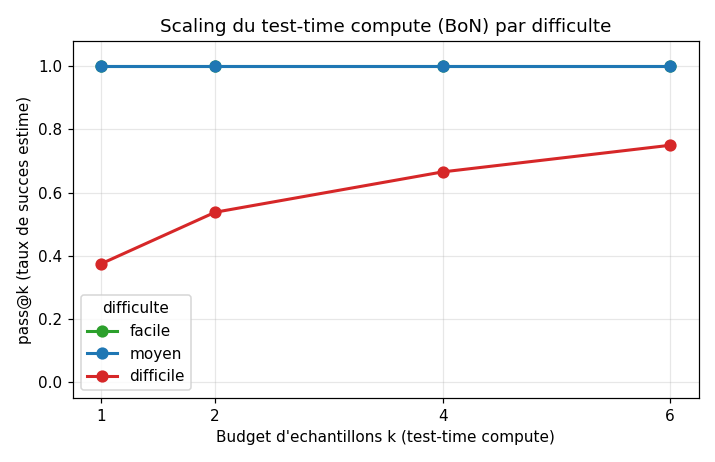
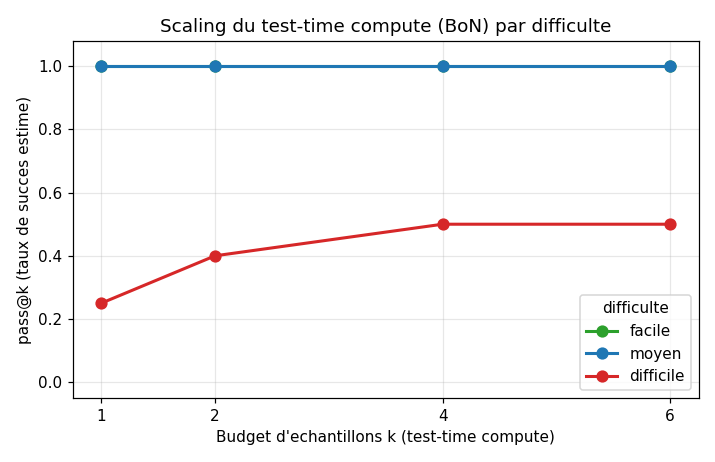
fix(genai,#16275): re-extraire les figures README perimees + rend le geste de regeneration non destructif (#16282)
* fix(genai,#16275): re-extraire les figures README perimees + rendre le geste non destructif

Les 3 PNG de GenAI/Texte/assets/readme/ dataient du 2026-07-08 alors que les
notebooks 16 et 17 ont ete re-executes depuis : la figure committée de la
cellule 8 differait du PNG sur disque de 13 146 px (cellule 11 : 4 161 px ;
notebook 17 cellule 11 : 24 654 px). Mesure pixel a pixel, pas visuelle.

Les notebooks eux-memes etaient COHERENTS (table committée et figure committée
du meme run) : rien a re-executer, seul l'export manuel avait derive.

- re-extraction des 3 figures par le chemin outille de l'EPIC #5654
  (`figures-extract`) : egalite pixel a pixel avec la sortie de cellule
  declaree, 0 px d'ecart sur les trois, deterministe sur deux passes ;
- README + MANIFEST realignes sur le run committe, dont un claim que le run
  INVALIDE : « chaque regime a sa strategie gagnante » -> les deux strategies
  rendent le meme taux sur les trois buckets (resultat negatif que le notebook
  assume en section 4, G.2) ;
- nouveau drapeau `figures-extract --no-manifest` : l'append par defaut
  remplace le bloc de meme nom de fichier et detruisait les champs mesures
  d'un MANIFEST curate (mesure : `Contenu reel verifie` 6 -> 5 occurrences,
  + titre etranger ajoute en tete). Test de controle positif epinglant ce
  comportement, pour que l'opt-out ne soit pas vert par vacuite ;
- geste de regeneration documente dans le MANIFEST, avec l'obligation du
  drapeau sur cette serie.
[…]

diff --git a/scripts/notebook_tools/tests/test_extract_readme_figures.py b/scripts/notebook_tools/tests/test_extract_readme_figures.py
@@ -900,6 +900,100 @@ class TestExtractFigure:
         )
         assert deep_path.exists()
 
+    def test_write_manifest_false_writes_the_same_png_as_the_default(
+            self, tmp_path: Path):
+        """L'opt-out ne doit changer QUE le MANIFEST, jamais l'image."""
+        nb = self._setup_nb(tmp_path)
+        with_manifest = tmp_path / "a" / "demo.png"
+        without_manifest = tmp_path / "b" / "demo.png"
+        extract_figure(
+            nb_path=nb, cell_index=0, output_index=0,
+            output_path=with_manifest,
+            alt_text_fr="alt", description_visuelle="desc",
+        )
+        extract_figure(
+            nb_path=nb, cell_index=0, output_index=0,
+            output_path=without_manifest,
+            alt_text_fr="alt", description_visuelle="desc",
+            write_manifest=False,
+        )
+        assert with_manifest.read_bytes() == without_manifest.read_bytes()
+
+
+# ---------------------------------------------------------------------------
+# 11bis. TestWriteManifestOptOut — #16275 : l'append MANIFEST est DESTRUCTEUR
+#        sur un MANIFEST curate (il remplace le bloc de meme nom de fichier)
+# ---------------------------------------------------------------------------
+_CURATED_MANIFEST = """# Manifeste des figures — Serie X
+
+| Figure | Fichier | Poids |
+|--------|---------|-------|
+| Demo | `demo.png` | 12 Ko |
+
+## demo.png
+
+- **Source** : notebook `demo.ipynb` (cellule 0, output 0)
+- **Description visuelle** : RGB 80x80 mean R247/G246/B246 std 21/21/21.
+- **Contenu réel vérifié** : 1 panneau, courbe rouge montant de 0.25 a 0.50.
+- **Alt-text (FR)** : figure de demonstration.
+- **Poids** : 12,1 Ko
+
+## autre.png
+
+- **Contenu réel vérifié** : bloc temoin, ne doit jamais bouger.
+"""
+
+
+class TestWriteManifestOptOut:
+    """#16275 : `write_manifest=False` ecrit le PNG sans toucher au MANIFEST.
+
+    Mesure fondatrice (GenAI/Texte, 2026-09-15) : le geste documente de
+    regeneration (`figures-extract` vers `assets/readme/`) faisait passer
+    `Contenu réel vérifié` de 6 a 5 occurrences — l'append remplace le bloc
+    `## <fichier>.png` et perd les champs mesures d'un MANIFEST curate.
+    """
+
+    def _curated_dir(self, tmp_path: Path) -> Path:
+        assets = tmp_path / "assets" / "readme"
+        assets.mkdir(parents=True)
+        (assets / "MANIFEST.md").write_text(_CURATED_MANIFEST, encoding="utf-8")
+        return assets
+
+    def test_positive_control_default_replaces_the_curated_block(
+            self, tmp_path: Path):
+        """Controle POSITIF : sans l'opt-out, le defaut detruit bien le bloc.
+
+        Sans ce test, `write_manifest=False` pourrait etre vert pour la
+        mauvaise raison (le defaut ne touchant rien dans ce corpus).
+        """
+        assets = self._curated_dir(tmp_path)
+        extract_figure(
+            nb_path=self._nb(tmp_path), cell_index=0, output_index=0,
+            output_path=assets / "demo.png",
+            alt_text_fr="alt outil", description_visuelle="desc outil",
+        )
+        body = (assets / "MANIFEST.md").read_text(encoding="utf-8")
+        assert "alt outil" in body
+        assert "Contenu réel vérifié** : 1 panneau" not in body  # champ perdu
+        assert "bloc temoin" in body  # les AUTRES figures sont intactes
+
+    def test_write_manifest_false_preserves_the_manifest_byte_for_byte(
+            self, tmp_path: Path):
+        assets = self._curated_dir(tmp_path)
+        before = (assets / "MANIFEST.md").read_bytes()
+        extract_figure(
+            nb_path=self._nb(tmp_path), cell_index=0, output_index=0,
+            output_path=assets / "demo.png",
+            alt_text_fr="alt outil", description_visuelle="desc outil",
+            write_manifest=False,
+        )
+        assert (assets / "MANIFEST.md").read_bytes() == before
+        assert (assets / "demo.png").read_bytes()[:8] == _PNG_MAGIC
+
+    def _nb(self, tmp_path: Path) -> Path:
+        return _write_nb(
+            tmp_path / "demo.ipynb", [_code_cell_with_png(PNG_100x100_B64)])
+
 
 # ---------------------------------------------------------------------------
 # 11. TestConstants — documented defaults (calibrated on EPIC #5654)

diff --git a/scripts/notebook_tools/extract_readme_figures.py b/scripts/notebook_tools/extract_readme_figures.py
@@ -295,7 +295,7 @@ def extract_figure(nb_path, cell_index: int, output_index: int,
                    description_visuelle: str,
                    max_dim: int = MAX_DIM_DEFAULT,
                    max_bytes: int = MAX_BYTES_DEFAULT,
-                   serie_root=None) -> dict:
+                   serie_root=None, write_manifest: bool = True) -> dict:
     """Extrait une figure PNG d'une cellule de notebook vers ``assets/readme/``.
 
     Lit le PNG a l'index ``(cell_index, output_index)`` du notebook, l'optimise
@@ -322,6 +322,12 @@ def extract_figure(nb_path, cell_index: int, output_index: int,
     ``serie_root`` (optionnel) : si fourni, le chemin relatif du notebook dans
     le manifest est calcule depuis cette racine (plus lisible). Sinon, chemin
     absolu.
+
+    ``write_manifest`` (defaut ``True``) : quand il vaut ``False``, le PNG est
+    ecrit mais aucun bloc n'est ajoute au ``MANIFEST.md``. A utiliser pour les
+    series dont le MANIFEST est **curate** (champs mesures + blocs d'audit
+    dates) : l'append remplace le bloc de meme nom de fichier et perdrait ces
+    champs (#16275).
 
     Retourne le record d'extraction :
 
@@ -376,8 +382,16 @@ def extract_figure(nb_path, cell_index: int, output_index: int,
         "used_pil": used_pil,
         "over_weight": len(optimized) > max_bytes,
     }
-    _append_manifest(
-        out_path.parent, entry, alt_text_fr, description_visuelle, serie_root)
+    # ``write_manifest=False`` : le PNG est ecrit, le MANIFEST est laisse
+    # intact. Necessaire pour les series dont le MANIFEST est CURATE (champs
+    # ``Contenu reel verifie`` / ``Description visuelle`` mesures, blocs
+    # d'audit dates) : l'append ci-dessous ne remplace que le bloc de meme nom
+    # de fichier, donc il detruit ces champs (#16275, mesure : 6 -> 5
+    # occurrences de ``Contenu reel verifie`` sur GenAI/Texte).
+    if write_manifest:
+        _append_manifest(
+            out_path.parent, entry, alt_text_fr, description_visuelle,
+            serie_root)
     return entry
 
 

diff --git a/scripts/notebook_tools/notebook_tools.py b/scripts/notebook_tools/notebook_tools.py
@@ -2209,7 +2209,8 @@ def cmd_figures_extract(args):
             nb_path, args.cell, args.output_index, out_path, args.alt,
             description_visuelle=args.description_visuelle,
             max_dim=args.max_dim, max_bytes=args.max_bytes,
-            serie_root=serie_root)
+            serie_root=serie_root,
+            write_manifest=not args.no_manifest)
     except (ValueError, FileNotFoundError) as exc:
         print_error(str(exc))
         return 1
@@ -2378,6 +2379,11 @@ def main():
                       help='Weight cap in bytes (default: 200 KB, EPIC #5654 HARD)')
     p_fe.add_argument('--serie-root',
                       help='Serie root for relative path in MANIFEST (default: absolute)')
+    p_fe.add_argument('--no-manifest', action='store_true',
+                      help='Write the PNG but leave MANIFEST.md untouched. '
+                           'For series with a CURATED MANIFEST (measured fields '
+                           '+ dated audit blocks): the default append replaces '
+                           'the same-named block and would drop them (#16275).')
 
     args = parser.parse_args()
 

diff --git a/MyIA.AI.Notebooks/GenAI/Texte/assets/readme/MANIFEST.md b/MyIA.AI.Notebooks/GenAI/Texte/assets/readme/MANIFEST.md
@@ -6,13 +6,28 @@ Provenance de chaque figure (convention d'indexation **all-cells** du module `ex
 
 > **Migration canonical c.767 (2026-07-22, jsboige:CoursIA-2)** : ajout du champ **`Description visuelle`** (gist compact de ce qui est *visible* en un coup d'œil, distinct du `Contenu réel vérifié` détaillé) sur les 3 figures txt-*. Format aligné sur c.751 (GenAI/Audio racine, PR #7995) + c.763 (GenAI/Video/04-Applications, PR #8000) + c.764 (GenAI/Image/02-Advanced, PR #8002) + c.765 (GenAI/Video/03-Orchestration, PR #8007) + c.766 (GenAI/Open-WebUI/00-Tour-Plateforme, PR #8012) + modèle rollout #5780. 3/3 figures migrées, audit vision MiniMax M3 firsthand + PIL RGB mean+std à 80×80 (cf PR body). **Audit fondateur c.479 préservé verbatim** ci-dessus ; cette migration est purement additive (pas de suppression de contenu). **Pivot cross-famille strict** vs c.766 (Open-WebUI = nouveau sous-genre #5780, captures Playwright self-hosted) → Texte = sous-genre **matplotlib authentiques** (figures académiques Snell 2024). G-VAR-3 pivot obligatoire après 5 cycles MED/docs-figures-audit consécutifs sur sous-genres GenAI : c.751 (Audio racine) → c.763 (Video/04-Apps) → c.764 (Image/02-Advanced) → c.765 (Video/03) → c.766 (Open-WebUI/00) → c.767 (Texte/00) — famille distincte Open-WebUI → Texte, sous-genre distinct captures Playwright → matplotlib académique.
 
+> **Re-extraction #16275 (2026-09-15, myia-po-2026:CoursIA)** : les 3 PNG étaient **périmés**. Ils avaient été exportés le 2026-07-08 depuis un run antérieur, alors que les notebooks 16 et 17 ont été **re-exécutés depuis** — leurs sorties committées sur `main` portent un autre run (`difficile` : 0.38/0.54/0.67/0.75 → **0.25/0.40/0.50/0.50**). Mesure, en pixels et non à l'œil : la figure committée de la cellule 8 différait du PNG sur disque de **13 146 px** (cellule 11 : **4 161 px** ; notebook 17 cellule 11 : **24 654 px**) — après re-extraction, **0 px** d'écart sur les trois. Les notebooks eux-mêmes étaient **cohérents** (table committée et figure committée du même run) : rien à re-exécuter, seul l'export avait dérivé. Champs *Description visuelle* / *Contenu réel vérifié* / *Alt-text* / *Poids* réalignés sur **le run committé** ; blocs d'audit c.479 et c.767 **préservés verbatim** (ce bloc est purement additif).
+
+**Geste de régénération** — à rejouer après toute ré-exécution des notebooks 16/17 :
+
+```bash
+SR=MyIA.AI.Notebooks/GenAI/Texte
+python scripts/notebook_tools/notebook_tools.py figures-extract "GenAI/Texte/16_Scaling_Test_Time_Compute.ipynb" \
+  --cell 8 --output "$SR/assets/readme/texte-scaling-passk.png" \
+  --alt "<alt-text FR>" --description-visuelle "<ce que la figure montre>" \
+  --serie-root "$SR" --no-manifest
+# idem --cell 11 sur 16_Scaling... et --cell 11 sur 17_Native_Reasoning_vs_Scaling.ipynb
+```
+
+**`--no-manifest` est obligatoire sur cette série** : les sections ci-dessous sont en `## <fichier>.png` (canonical c.767) et l'append par défaut de l'outil **remplace le bloc de même nom** — il détruirait les champs mesurés `Description visuelle` / `Contenu réel vérifié` et leurs blocs d'audit datés. Mesuré : sans le drapeau, `Contenu réel vérifié` passe de 6 à 5 occurrences sur ce fichier (l'option a été ajoutée par cette PR, avec un test de contrôle positif qui épingle ce comportement). **Aucun organe ne détecte aujourd'hui la dérive PNG ↔ sortie de cellule** — c'est le résidu de #16275, hors de ce correctif.
+
 | Figure | Fichier | Dimensions | Poids | Source (notebook · cellule · output) | Sujet |
 |--------|---------|------------|-------|--------------------------------------|-------|
-| Scaling pass@k | `texte-scaling-passk.png` | 715×462 | 33 Ko | `16_Scaling_Test_Time_Compute.ipynb` · cellule 8 · output 0 | Courbes de scaling pass@k par bucket de difficulté (Snell 2024) |
-| BoN vs Réflexion | `texte-bon-vs-reflex.png` | 715×462 | 24 Ko | `16_Scaling_Test_Time_Compute.ipynb` · cellule 11 · output 0 | Best-of-N parallèle vs Réflexion séquentielle — frontière compute-optimal |
-| Raisonnement vs Scaling | `texte-reason-vs-scale.png` | 770×505 | 50 Ko | `17_Native_Reasoning_vs_Scaling.ipynb` · cellule 11 · output 0 | Raisonnement natif vs scaling hand-rolled, comparaison cost-normalisée |
+| Scaling pass@k | `texte-scaling-passk.png` | 715×462 | 30,4 Ko | `16_Scaling_Test_Time_Compute.ipynb` · cellule 8 · output 0 | Courbes de scaling pass@k par bucket de difficulté (Snell 2024) |
+| BoN vs Réflexion | `texte-bon-vs-reflex.png` | 715×462 | 23,1 Ko | `16_Scaling_Test_Time_Compute.ipynb` · cellule 11 · output 0 | Best-of-N parallèle vs Réflexion séquentielle — frontière compute-optimal |
+| Raisonnement vs Scaling | `texte-reason-vs-scale.png` | 770×505 | 47,0 Ko | `17_Native_Reasoning_vs_Scaling.ipynb` · cellule 11 · output 0 | Raisonnement natif vs scaling hand-rolled, comparaison cost-normalisée |
 
-**Total** : 3 figures, 105 Ko. **Politique** (#5654) : ≤200 Ko/fichier, downscale ≤1200 px max. Ces sorties sont des **courbes matplotlib** (line-art + étiquettes de texte) : **PNG lossless natif** préféré à WebP pour préserver la netteté du texte (plots déjà petits, 23–50 Ko natifs). 3 figures = toutes les sorties PNG du module (pas de padding). Arc narratif : (1) scaling du test-time compute — combien d'échantillons pour quelle difficulté ; (2) compute-optimal — parallèle vs séquentiel à budget égal ; (3) cost-normalisé Snell — le raisonnement natif d'un gros modèle vaut-il un scaling hand-rolled ?
+**Total** : 3 figures, 100,5 Ko. **Politique** (#5654) : ≤200 Ko/fichier, downscale ≤1200 px max. Ces sorties sont des **courbes matplotlib** (line-art + étiquettes de texte) : **PNG lossless natif** préféré à WebP pour préserver la netteté du texte (plots déjà petits, 23–47 Ko natifs). 3 figures = toutes les sorties PNG du module (pas de padding). Arc narratif : (1) scaling du test-time compute — combien d'échantillons pour quelle difficulté ; (2) compute-optimal — parallèle vs séquentiel à budget égal ; (3) cost-normalisé Snell — le raisonnement natif d'un gros modèle vaut-il un scaling hand-rolled ?
 
 ---
 
@@ -21,46 +36,46 @@ Provenance de chaque figure (convention d'indexation **all-cells** du module `ex
 ## texte-scaling-passk.png
 
 - **Source** : notebook `16_Scaling_Test_Time_Compute.ipynb` (cellule 8, output 0)
-- **Description visuelle** : Line plot matplotlib 715×462 sur fond majoritairement **blanc cassé** (RGB 80×80 mean R247/G246/B246 std 21/22/21 — variance très basse, signature canonique d'un plot blanc avec peu de pixels colorés : les courbes + axes + grille occupent une fraction minoritaire de la surface), titre intégré en haut « Scaling du test-time compute (BoN) par difficulte ». **3 courbes de marqueurs cercles** : une **verte** (facile) et une **bleue** (moyen) qui forment un plateau horizontal à y=1.0 de x=1 à x=6 (ces deux courbes se superposent quasi exactement) ; une **rouge** (difficile) en montée monotone de y≈0.38 (x=1) → y≈0.54 (x=2) → y≈0.67 (x=4) → y≈0.75 (x=6). **Grille pâle horizontale** (lignes pointillées à 0.2/0.4/0.6/0.8/1.0). **Légende en bas-gauche** listant les 3 codes couleur. Lecture pédagogique = le scaling BoN **sature rapidement** sur les buckets faciles/moyens (dès k=1) et **bénéficie marginalement** du budget supplémentaire sur le bucket difficile sans converger vers 1.0 dans la plage observée.
+- **Description visuelle** : Line plot matplotlib 715×462 sur fond majoritairement **blanc cassé** (RGB 80×80 mean R247/G246/B246 std 21/21/21 — variance très basse, signature canonique d'un plot blanc avec peu de pixels colorés : les courbes + axes + grille occupent une fraction minoritaire de la surface), titre intégré en haut « Scaling du test-time compute (BoN) par difficulte ». **3 courbes de marqueurs cercles** : une **verte** (facile) et une **bleue** (moyen) qui forment un plateau horizontal à y=1.0 de x=1 à x=6 (ces deux courbes se superposent quasi exactement) ; une **rouge** (difficile) en montée de y=0.25 (x=1) → y=0.40 (x=2) → y=0.50 (x=4) → y=0.50 (x=6), plateau atteint dès x=4. **Grille pâle horizontale** (lignes pointillées à 0.2/0.4/0.6/0.8/1.0). **Légende en bas-gauche** listant les 3 codes couleur. Lecture pédagogique = le scaling BoN **sature rapidement** sur les buckets faciles/moyens (dès k=1) et **bénéficie marginalement** du budget supplémentaire sur le bucket difficile sans converger vers 1.0 dans la plage observée.
 - **Contenu réel vérifié** : Figure 715×462, titre centré en haut « Scaling du test-time compute (BoN) par difficulte ». **Axes annotés explicitement** : axe X = « Budget d'echantillons k (test-time compute) » avec valeurs discrètes 1, 2, 4, 6 ; axe Y = « pass@k (taux de succes estime) » de 0.0 à 1.0. **3 courbes de marqueurs** (lignes simples avec cercles) :
   - **Facile (vert)** : plateau à 1.0 sur tout le budget k=1→6 (le modèle résout déjà dès k=1)
   - **Moyen (bleu)** : plateau à 1.0 sur tout le budget k=1→6 (résolu tôt aussi)
-  - **Difficile (rouge)** : montée monotone de ~0.38 (k=1) → ~0.54 (k=2) → ~0.67 (k=4) → ~0.75 (k=6)
+  - **Difficile (rouge)** : montée de 0.25 (k=1) → 0.40 (k=2) → 0.50 (k=4) → 0.50 (k=6), puis **plateau** (le budget supplémentaire ne gagne plus rien au-delà de k=4)
 
   Légende en bas-gauche « difficulte » avec les 3 codes couleur. **Alt-text et figure cohérents** : illustre le principe du scaling BoN — les problèmes faciles saturent rapidement, les difficiles bénéficient marginalement du budget supplémentaire mais sans converger vers 1.0 dans la plage observée.
-- **Alt-text (FR)** : Scaling pass@k vs budget d'échantillons (BoN) par bucket de difficulté — courbe rouge « difficile » en montée monotone 0.38→0.75 sur k=1→6, courbes verte « facile » et bleue « moyen » en plateau à 1.0 sur tout le budget (Snell 2024, scaling laws for test-time compute).
-- **Poids** : 32,2 Ko (natif PNG 715×462)
+- **Alt-text (FR)** : Scaling pass@k vs budget d'échantillons (BoN) par bucket de difficulté — courbe rouge « difficile » en montée 0.25→0.40→0.50→0.50 sur k=1→6 (plateau dès k=4), courbes verte « facile » et bleue « moyen » en plateau à 1.0 sur tout le budget (Snell 2024, scaling laws for test-time compute).
+- **Poids** : 30,4 Ko (natif PNG 715×462)
 - **Note** : référence implicite à Snell 2024 (scaling laws for test-time compute) — choix pédagogique pertinent pour ouvrir sur la discussion compute-optimal.
 
 ## texte-bon-vs-reflex.png
 
 - **Source** : notebook `16_Scaling_Test_Time_Compute.ipynb` (cellule 11, output 0)
-- **Description visuelle** : Bar plot matplotlib 715×462 (grouped bars) sur fond blanc cassé avec la palette **la plus saturée** des 3 figures (RGB 80×80 mean R229/G194/B187 std 41/65/90 — B plus étalé que R/G car le violet Réflexion tire B vers le haut, std B=90 le plus élevé des 3 figures), titre intégré « Compute-optimal : strategie gagnante selon la difficulte ». **6 barres groupées par 2** sur 3 clusters de l'axe X (facile / moyen / difficile) : **orange vif** = BoN parallèle (pass@4), **violet-mauve** = Réflexion séquentielle (K=4). Lecture des hauteurs : **facile** = BoN 1.00 ≈ Réflexion 1.00 (barres jumelles au plafond, indiscernables) ; **moyen** = BoN 1.00 ≈ Réflexion 1.00 (idem) ; **difficile** = BoN ~0.67 **dépasse visiblement** Réflexion ~0.50 (différence de hauteur ≈0.17 = la seule discrimination du graphique). **Légende en haut-droite** avec carré orange × carré violet. Axes sans label explicite sur X (catégoriel), Y = 0.0 à 1.0. Lecture pédagogique = verdict « **BoN gagne** » n'est **que** sur le bucket difficile (les autres saturent au plafond donc sont équivalents).
+- **Description visuelle** : Bar plot matplotlib 715×462 (grouped bars) sur fond blanc cassé avec la palette **la plus saturée** des 3 figures (RGB 80×80 mean R229/G196/B190 std 41/65/88 — B plus étalé que R/G car le violet Réflexion tire B vers le haut, std B=90 le plus élevé des 3 figures), titre intégré « Compute-optimal : strategie gagnante selon la difficulte ». **6 barres groupées par 2** sur 3 clusters de l'axe X (facile / moyen / difficile) : **orange vif** = BoN parallèle (pass@4), **violet-mauve** = Réflexion séquentielle (K=4). Lecture des hauteurs : **facile** = BoN 1.00 ≈ Réflexion 1.00 (barres jumelles au plafond, indiscernables) ; **moyen** = BoN 1.00 ≈ Réflexion 1.00 (idem) ; **difficile** = BoN 0.50 ≈ Réflexion 0.50 (barres jumelles, **aucune discrimination** sur ce run). **Légende en haut-droite** avec carré orange × carré violet. Axes sans label explicite sur X (catégoriel), Y = 0.0 à 1.0. Lecture pédagogique = sur ce run, **aucun bucket ne discrimine** les deux stratégies (le notebook l'assume en section 4, limites honnêtes G.2) ; la discrimination que Snell prédit sur le bucket difficile demande un n et un modèle plus grands. **Précision de mesure** : ce verdict décrit un tirage, pas une propriété — le bucket décisif ne compte que **2 problèmes** et le décodage est échantillonné, sans graine ; rejouer la comparaison au même n donne tantôt l'égalité, tantôt l'avantage à l'une des deux stratégies. Ce document décrit le tirage committé ; il ne tranche pas la frontière compute-optimale.
 - **Contenu réel vérifié** : Figure 715×462, titre centré en haut « Compute-optimal : strategie gagnante selon la difficulte ». **Axe Y** = « Taux de succes » de 0.0 à 1.0 ; **axe X** = 3 buckets discrets (facile / moyen / difficile) sans label d'axe explicite. **6 barres groupées par 2** (BoN orange + Réflexion violet) :
   - **Facile** : BoN = 1.00, Réflexion = 1.00 → **egal**
   - **Moyen** : BoN = 1.00, Réflexion = 1.00 → **egal**
-  - **Difficile** : BoN = ~0.67, Réflexion = ~0.50 → **BoN gagne**
+  - **Difficile** : BoN = 0.50, Réflexion = 0.50 → **egal**
 
-  Légende en haut-droite : « BoN parallele (pass@4) » orange × « Reflexion sequentielle (K=4) » violet. **Alt-text et figure cohérents** : illustre le résultat pédagogique clé — pour les problèmes difficiles, le **parallélisme BoN** est plus compute-efficace que la **réflexion séquentielle** (à budget tokens égal). Note : pour les problèmes faciles/moyens, les deux stratégies atteignent le plafond donc sont équivalentes — la discrimination est sur le bucket difficile.
-- **Alt-text (FR)** : Bar plot compute-optimal — 3 buckets (facile/moyen/difficile), 2 stratégies à budget égal K=4 (BoN orange vs Réflexion violet). Facile et moyen : les deux stratégies atteignent le plafond 1.0 (équivalentes). Difficile : BoN ~0.67 dépasse Réflexion ~0.50 (BoN gagne sur les problèmes durs).
-- **Poids** : 23,7 Ko (natif PNG 715×462)
-- **Note** : comparaison côte-à-côte (grouped bars) = choix lisible ; le verdict « BoN gagne » est implicite (hauteur de barre) sans annotation texte additionnelle.
+  Légende en haut-droite : « BoN parallele (pass@4) » orange × « Reflexion sequentielle (K=4) » violet. **Alt-text et figure cohérents** : sur ce run les deux stratégies rendent **le même taux sur les trois buckets** — la figure documente donc un **résultat négatif** (la discrimination compute-optimale de Snell n'est pas atteignable à n=6 / K=4 sur ce modèle), ce que le notebook énonce lui-même en section 4 (limites honnêtes G.2).
+- **Alt-text (FR)** : Bar plot compute-optimal — 3 buckets (facile/moyen/difficile), 2 stratégies à budget égal K=4 (BoN orange vs Réflexion violet). Facile et moyen : 1.0 pour les deux (équivalentes). Difficile : BoN 0.50 et Réflexion 0.50 — égalité, aucune stratégie ne domine sur ce run.
+- **Poids** : 23,1 Ko (natif PNG 715×462)
+- **Note** : comparaison côte-à-côte (grouped bars) = choix lisible ; le verdict est **implicite** par la hauteur des barres (ici : égalité, donc pas de verdict à lire) sans annotation texte additionnelle.
 
 ## texte-reason-vs-scale.png
 
 - **Source** : notebook `17_Native_Reasoning_vs_Scaling.ipynb` (cellule 11, output 0)
-- **Description visuelle** : Line plot + scatter matplotlib 770×505 sur fond blanc cassé (RGB 80×80 mean R245/G245/B245 std 23/22/23 — variance basse, même signature que scaling-passk.png car line-art éparse sur fond blanc), titre intégré « Raisonnement natif vs scaling hand-rolled (cost-normalise) ». **6 séries** distinguées par couleur (vert facile / bleu moyen / rouge difficile) ET par marqueur (cercle pour BoN, X pour r1 single-shot), organisées en 2 strates : **3 courbes BoN** (vert/bleu/rouge cercles, lignes simples) qui montrent la montée du pass@k vs tokens dépensés — les courbes verte/bleue s'écrasent à 1.0 dès x≈40-300 (plateau), la courbe rouge monte monotonement de y≈0.16 (x=40) → y≈0.29 (x=110) → y≈0.43 (x=210) → y≈0.49 (x=300) sans saturer ; **3 points isolés r1** (croix) à y=1.0 single-shot : vert facile à x≈300, bleu moyen à x≈575, rouge difficile à x≈735. **Légende en bas-droite** listant les 6 séries. Lecture pédagogique = le point **rouge r1 difficile** (x≈735, y=1.0) se situe **au-dessus** de l'extrapolation de la courbe BoN difficile (qui plafonne à 0.49) → le raisonnement natif (deepseek-r1) **gagne au coût-égal** sur le bucket difficile, là où BoN llama-3.3-70b-instruct investit ~300 tokens pour 49%.
-- **Contenu réel vérifié** : Figure 770×505, titre centré en haut « Raisonnement natif vs scaling hand-rolled (cost-normalise) ». **Axes annotés explicitement** : axe X = « Tokens depenses (cout test-time compute) » de 0 à 700 ; axe Y = « Taux de succes (pass@k / single-shot) » de 0.0 à 1.0. **6 séries** (3 buckets × 2 stratégies), toutes à pass-rate = 1.0 sauf la courbe rouge :
-  - **BoN facile (vert cercles)** : plateau 1.0 de x≈40 à x≈300
-  - **r1 facile (vert croix)** : 1 point isolé à x≈300, y=1.0 (single-shot)
-  - **BoN moyen (bleu cercles)** : plateau 1.0 de x≈40 à x≈300
-  - **r1 moyen (bleu croix)** : 1 point isolé à x≈575, y=1.0
-  - **BoN difficile (rouge cercles)** : montée monotone de ~0.16 (x=40) → ~0.29 (x=110) → ~0.43 (x=210) → ~0.49 (x=300)
-  - **r1 difficile (rouge croix)** : 1 point isolé à x≈735, y=1.0
+- **Description visuelle** : Line plot + scatter matplotlib 770×505 sur fond blanc cassé (RGB 80×80 mean R245/G245/B245 std 23/22/23 — variance basse, même signature que scaling-passk.png car line-art éparse sur fond blanc), titre intégré « Raisonnement natif vs scaling hand-rolled (cost-normalise) ». **6 séries** distinguées par couleur (vert facile / bleu moyen / rouge difficile) ET par marqueur (cercle pour BoN, X pour r1 single-shot), organisées en 2 strates : **3 courbes BoN** (vert/bleu/rouge cercles, lignes simples) qui montrent la montée du pass@k vs tokens dépensés — les courbes verte/bleue s'écrasent à 1.0 dès x=30-386 (plateau), la courbe rouge monte de y=0.25 (x=73) → y=0.40 (x=146) → y=0.50 (x=292) → y=0.50 (x=438) puis plafonne ; **3 points isolés r1** (croix) à y=1.0 single-shot : vert facile à x=232, bleu moyen à x=553, rouge difficile à x=1213. **Légende en bas-droite** listant les 6 séries. Lecture pédagogique = le point **rouge r1 difficile** (x=1213, y=1.0) se situe **au-dessus** de l'extrapolation de la courbe BoN difficile (qui plafonne à 0.50) → le raisonnement natif (deepseek-r1) **gagne au coût-égal** sur le bucket difficile, là où BoN llama-3.3-70b-instruct investit 438 tokens pour 50%.
+- **Contenu réel vérifié** : Figure 770×505, titre centré en haut « Raisonnement natif vs scaling hand-rolled (cost-normalise) ». **Axes annotés explicitement** : axe X = « Tokens depenses (cout test-time compute) » de 0 à ~1250 (ticks jusqu'à 1200) ; axe Y = « Taux de succes (pass@k / single-shot) » de 0.0 à 1.0. **6 séries** (3 buckets × 2 stratégies), toutes à pass-rate = 1.0 sauf la courbe rouge :
+  - **BoN facile (vert cercles)** : plateau 1.0 de x=30 à x=281
+  - **r1 facile (vert croix)** : 1 point isolé à x=232, y=1.0 (single-shot)
+  - **BoN moyen (bleu cercles)** : plateau 1.0 de x=71 à x=386
+  - **r1 moyen (bleu croix)** : 1 point isolé à x=553, y=1.0
+  - **BoN difficile (rouge cercles)** : montée de 0.25 (x=73) → 0.40 (x=146) → 0.50 (x=292) → 0.50 (x=438), plateau dès x=292
+  - **r1 difficile (rouge croix)** : 1 point isolé à x=1213, y=1.0
 
-  Légende en bas-droite listant les 6 séries. **Alt-text et figure cohérents** : illustre la question Snell 2024 — pour les problèmes difficiles, le **modèle à raisonnement natif** (deepseek-r1) atteint **100% en single-shot** alors qu'il faut ~300 tokens de BoN llama-3.3-70b-instruct pour atteindre 49%. **Le point r1 difficile se situe au-dessus de la courbe BoN difficile extrapolée** → raisonnement natif gagne au coût-égal pour le bucket difficile. Pour facile/moyen, BoN sature rapidement donc les deux stratégies sont équivalentes au plafond.
-- **Alt-text (FR)** : Raisonnement natif deepseek-r1 (X) vs scaling hand-rolled BoN llama-3.3-70b-instruct (cercles), cost-normalisé (axe X = tokens). Sur le bucket difficile : r1 single-shot à x≈735 atteint 100%, BoN à x≈300 plafonne à 49% → raisonnement natif gagne au coût-égal. Facile/moyen : les deux stratégies s'équivalent au plafond 1.0 (Snell 2024 cost-normalisé).
-- **Poids** : 49,6 Ko (natif PNG 770×505)
+  Légende en bas-droite listant les 6 séries. **Alt-text et figure cohérents** : illustre la question Snell 2024 — pour les problèmes difficiles, le **modèle à raisonnement natif** (deepseek-r1) atteint **100% en single-shot** alors qu'il faut 438 tokens de BoN llama-3.3-70b-instruct pour atteindre 50%. **Le point r1 difficile se situe au-dessus de la courbe BoN difficile extrapolée** → raisonnement natif gagne au coût-égal pour le bucket difficile. Pour facile/moyen, BoN sature rapidement donc les deux stratégies sont équivalentes au plafond.
+- **Alt-text (FR)** : Raisonnement natif deepseek-r1 (X) vs scaling hand-rolled BoN llama-3.3-70b-instruct (cercles), cost-normalisé (axe X = tokens). Sur le bucket difficile : r1 single-shot à x=1213 atteint 100%, BoN plafonne à 50% dès x=438 → raisonnement natif gagne au coût-égal. Facile/moyen : les deux stratégies s'équivalent au plafond 1.0 (Snell 2024 cost-normalisé).
+- **Poids** : 47,0 Ko (natif PNG 770×505)
 - **Note** : les marqueurs différents (cercle pour BoN, X pour r1 single-shot) permettent de distinguer visuellement « courbe d'effort » vs « point d'arrivée » — choix pédagogique très clair.
 
 ## Note méthodologique — figures pédagogiques matplotlib authentiques
@@ -84,4 +99,5 @@ Cette série est **4ᵉ dans le rollout** à présenter exclusivement des **figu
 - **R3 atomic** : 1 fichier (`MANIFEST.md` du dossier `assets/readme/`), pas de churn ailleurs. Migration purement additive (audit fondateur c.479 préservé verbatim byte-identity, nouveau champ `Description visuelle` ajouté par figure + bloc de migration c.767 en tête de section).
 - **L268 #4 LF-only** : `git diff | tr -cd '\r' | wc -c` = 0. Pas de retour chariot dans le diff.
 - **L143 secrets-hygiene** : `grep -nE "sk-|ghp_|AIza|password=|secret="` sur le diff = 0 hit (l'unique hit est la règle elle-même dans la section *Conformité règles*).
-- **C.3 strict respecté** : 0 notebook ré-exécuté (cellules sources inchangées), 0 PNG régénéré (3 figures conservées telles quelles sur disque, lecture directe via `Read` sans modification binaire).
+- **C.3 strict respecté (c.767)** : 0 notebook ré-exécuté (cellules sources inchangées), 0 PNG régénéré (3 figures conservées telles quelles sur disque, lecture directe via `Read` sans modification binaire). *Constat de la PR c.767 — voir la ligne #16275 ci-dessous pour l'état courant.*
+- **C.3 / #16275** : **0 notebook ré-exécuté** (aucune cellule source modifiée — les sorties committées étaient déjà cohérentes avec leurs figures) ; **3 PNG régénérés** par le chemin outillé de l'EPIC #5654 (`figures-extract --no-manifest`), avec égalité pixel à pixel vérifiée contre la sortie de cellule déclarée (0 px d'écart). Périmètre : 3 PNG + `README.md` + ce MANIFEST + `extract_readme_figures.py` / `notebook_tools.py` et leurs tests — **1 sujet** (régénération des figures README), **1 domaine** (GenAI/Texte).

diff --git a/MyIA.AI.Notebooks/GenAI/Texte/README.md b/MyIA.AI.Notebooks/GenAI/Texte/README.md
@@ -83,21 +83,23 @@ Le notebook 12 introduit en Python pur les quatre moteurs d'inférence au moment
 **pass@k : la frontière s'ouvre avec le budget.** L'estimateur pass@k mesure le taux de succès quand on autorise *k* échantillons indépendants. Snell 2024 montre que cette frontière dépend fortement de la difficulté : les problèmes *faciles* saturent presque immédiatement, tandis que les *difficiles* continuent de monter avec *k* — d'où l'intérêt d'investir le compute là où le single-shot échoue.
 
 <p align="center">
-  <img src="assets/readme/texte-scaling-passk.png" alt="Line plot matplotlib « Scaling du test-time compute (BoN) par difficulte » (axe X Budget d'echantillons k = 1/2/4/6, axe Y pass@k 0.0→1.0) ; 3 courbes (Facile vert + Moyen bleu en plateau saturé 1.0 dès k=1 ; Difficile rouge en montée monotone ~0.38→~0.54→~0.67→~0.75) — révèle que seules les questions difficiles bénéficient marginalement du budget k." width="420"/><br>
-  <em><b>pass@k vs budget k</b> ([16](16_Scaling_Test_Time_Compute.ipynb)) — 3 courbes (taux de succès Y, budget d'échantillons k X), une par bucket de difficulté : le <i>facile</i> sature vite, le <i>difficile</i> monte avec k (résultat central de Snell).</em>
+  <img src="assets/readme/texte-scaling-passk.png" alt="Line plot matplotlib « Scaling du test-time compute (BoN) par difficulte » (axe X Budget d'echantillons k = 1/2/4/6, axe Y pass@k 0.0→1.0) ; 3 courbes (Facile vert + Moyen bleu en plateau saturé 1.0 dès k=1 ; Difficile rouge en montée 0.25→0.40→0.50→0.50, plateau atteint dès k=4) — révèle que seules les questions difficiles bénéficient du budget k, sans converger vers 1.0 dans la plage observée." width="420"/><br>
+  <em><b>pass@k vs budget k</b> ([16](16_Scaling_Test_Time_Compute.ipynb)) — 3 courbes (taux de succès Y, budget d'échantillons k X), une par bucket de difficulté : le <i>facile</i> sature dès k=1, le <i>difficile</i> monte jusqu'à k=4 puis plafonne à 0.50 (résultat central de Snell).</em>
 </p>
 
-**BoN vs Réflexion : chaque régime a sa stratégie gagnante.** Comparer Best-of-N parallèle (plusieurs essais indépendants) à la Réflexion séquentielle (un essai qui se corrige) révèle qu'aucune architecture ne domine universellement : selon le bucket de difficulté, l'une bat l'autre — c'est la *frontière compute-optimale*, choisir la bonne méthode pour le bon régime.
+**BoN vs Réflexion : à ce n, le verdict appartient au tirage, pas à la méthode.** Comparer Best-of-N parallèle (plusieurs essais indépendants) à la Réflexion séquentielle (un essai qui se corrige) est la comparaison compute-optimale de Snell. Sur le run committé, les deux stratégies rendent **le même taux sur les trois buckets**.
+
+Ce verdict décrit **un tirage**, pas une propriété de la méthode : le décodage est échantillonné (sans graine) et le bucket qui tranche ne compte que **2 problèmes** — un seul échantillon qui bascule suffit à changer le verdict. Rejouer la même comparaison au même n donne donc tantôt l'égalité, tantôt l'avantage à l'une des deux stratégies. Aucune des deux n'est démontrée gagnante ici, et ce texte ne prétend pas le contraire : la figure documente le run committé, elle ne tranche pas la frontière compute-optimale de Snell — ce qui demande un n et un modèle plus grands, comme le notebook l'assume en section 4 (limites honnêtes, G.2).
 
 <p align="center">
-  <img src="assets/readme/texte-bon-vs-reflex.png" alt="Grouped barplot matplotlib « Compute-optimal : strategie gagnante selon la difficulte » (axe Y Taux de succes 0.0→1.0, axe X 3 buckets discret facile/moyen/difficile) ; 6 barres par paires (BoN orange + Reflexion violette) : facile et moyen = egalite a 1.00 pour les deux strategies, mais difficile = BoN ~0.67 bat Reflexion ~0.50 — la stratégie dépend du régime de difficulté." width="420"/><br>
-  <em><b>BoN vs Réflexion par difficulté</b> ([16](16_Scaling_Test_Time_Compute.ipynb)) — diagramme en barres groupées (taux de succès Y) : chaque régime a sa stratégie gagnante = la frontière compute-optimale.</em>
+  <img src="assets/readme/texte-bon-vs-reflex.png" alt="Grouped barplot matplotlib « Compute-optimal : strategie gagnante selon la difficulte » (axe Y Taux de succes 0.0→1.0, axe X 3 buckets discret facile/moyen/difficile) ; 6 barres par paires (BoN orange + Reflexion violette) : facile et moyen = egalite a 1.00 pour les deux strategies, et difficile = BoN 0.50 contre Reflexion 0.50 — egalite sur les trois buckets pour CE tirage committe ; le verdict varie d'un run a l'autre (bucket decisif = 2 problemes, decodage echantillonne)." width="420"/><br>
+  <em><b>BoN vs Réflexion par difficulté</b> ([16](16_Scaling_Test_Time_Compute.ipynb)) — diagramme en barres groupées (taux de succès Y) : égalité sur chaque bucket pour ce tirage committé. Le bucket décisif ne compte que 2 problèmes et le décodage est échantillonné — la figure documente un tirage, elle ne tranche pas (cf. texte).</em>
 </p>
 
 **Raisonnement natif vs scaling hand-rolled.** La comparaison cost-normalisée — en *tokens dépensés* plutôt qu'en échantillons — oppose le BoN « fait maison » (courbes) au raisonnement natif de deepseek-r1 (croix) : à coût token égal, la croix r1 se place au-dessus de la courbe BoN, le raisonnement natif exploite donc mieux chaque token que le simple parallélisme.
 
 <p align="center">
-  <img src="assets/readme/texte-reason-vs-scale.png" alt="Plot matplotlib « Raisonnement natif vs scaling hand-rolled (cost-normalise) » (axe X Tokens depenses 0→700, axe Y Taux de succes 0.0→1.0) ; 6 séries : BoN facile/moyen (vert/bleu cercles) plateau 1.0 sur x≈40→300, r1 facile (X vert) + r1 moyen (X bleu) en single-shot a 1.0, BoN difficile (rouge cercles) en montee ~0.16→~0.49 sur x=40→300 vs r1 difficile (X rouge) qui atteint 1.0 en single-shot a x≈735 — le raisonnement natif bat le BoN cost-normalisé pour le bucket difficile (Snell 2024)." width="500"/><br>
+  <img src="assets/readme/texte-reason-vs-scale.png" alt="Plot matplotlib « Raisonnement natif vs scaling hand-rolled (cost-normalise) » (axe X Tokens depenses 0→~1250, axe Y Taux de succes 0.0→1.0) ; 6 séries : BoN facile/moyen (vert/bleu cercles) plateau 1.0 sur x=30→386, r1 facile (X vert) a 1.0 en single-shot a x=232 et r1 moyen (X bleu) a x=553, BoN difficile (rouge cercles) en montee 0.25→0.40→0.50→0.50 sur x=73→438 vs r1 difficile (X rouge) qui atteint 1.0 en single-shot a x=1213 — le raisonnement natif bat le BoN cost-normalisé pour le bucket difficile (Snell 2024)." width="500"/><br>
   <em><b>Raisonnement natif vs scaling hand-rolled</b> ([17](17_Native_Reasoning_vs_Scaling.ipynb)) — courbes (BoN) et croix (r1) du taux de succès vs <b>tokens dépensés</b> (comparaison cost-normalisée) : la croix au-dessus de la courbe au même coût = le raisonnement natif gagne.</em>
 </p>
 
